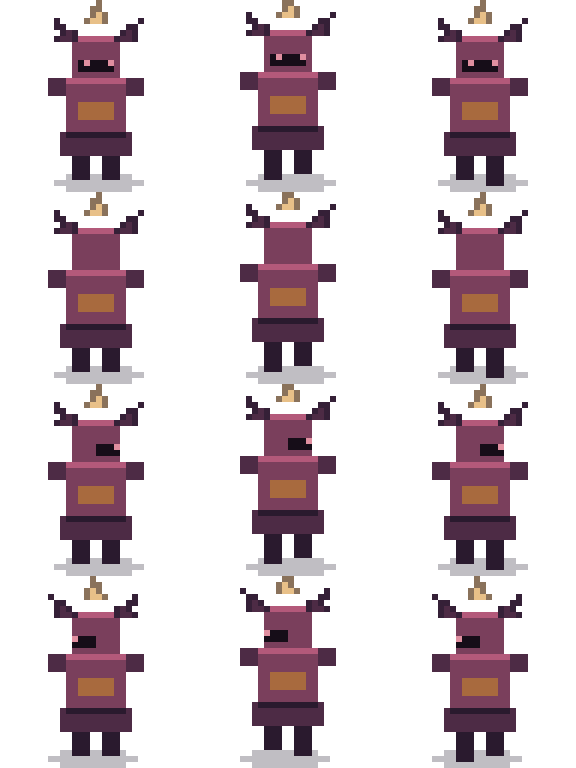
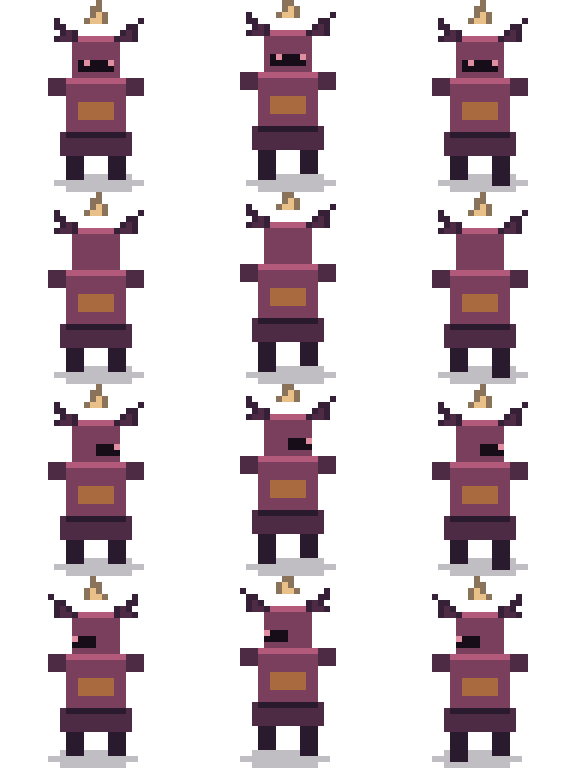
fix(pt-d2): honour `size` in the armored and vapor body plans; correct ADR-0144 D4 + record follow-ups
Red-team demonstrated that draw_vapor (and reviewer flagged draw_armored)
accepted `size` without reading it, so two plan-table rows differing only in
size rendered byte-identically while the cheap table-uniqueness checker called
them distinct. Both now route size through sz(), proven by a per-plan pixel
hash: armored/vapor small != large.

ADR-0144 D4 claimed the eval mirrors nothing the Rust validators own; it does
mirror non-empty-learnset and dangling-skill-ref (deliberately, per the
evolution-fusion-content-integrity precedent). Corrected, and the three
knowingly-deferred follow-ups recorded.

ARCHITECTURE.md gains the M-playtest-d section.

diff --git a/client/art-src/generate_monsters.py b/client/art-src/generate_monsters.py
@@ -286,15 +286,18 @@ def draw_armored(facing, col, pal, sec, acc, size, feats):
     im = Img(TILE, TILE)
     b = 1 if col == "walk0" else 0
     lp = {"idle": 0, "walk0": 1, "walk1": -1}[col]
-    contact_shadow(im, 16, 30, 7)
-    for dx, ph in ((-4, lp), (1, -lp)):  # planted legs, directly under torso
+    # `size` widens the torso block and the shoulder plates, so two rows of the
+    # plan table that differ only in size cannot render identically.
+    hw = sz(size, 4, 5)  # torso half-width
+    contact_shadow(im, 16, 30, hw + 2)
+    for dx, ph in ((-hw, lp), (hw - 3, -lp)):  # planted legs, under the torso
         im.rect(16 + dx, 25 - b + (1 if ph > 0 else 0), 3, 5, acc[1])
-    im.rect(10, 22 - b, 12, 4, pal[1])  # hips
-    im.rect(11, 13 - b, 10, 10, pal[2])  # torso block
-    im.hline(11, 13 - b, 10, pal[3])
-    im.hline(11, 22 - b, 10, pal[0])
-    im.rect(8, 13 - b, 3, 3, pal[1])  # shoulder plates (2px wider than torso)
-    im.rect(21, 13 - b, 3, 3, pal[1])
+    im.rect(16 - hw - 1, 22 - b, 2 * hw + 2, 4, pal[1])  # hips
+    im.rect(16 - hw, 13 - b, 2 * hw, 10, pal[2])  # torso block
+    im.hline(16 - hw, 13 - b, 2 * hw, pal[3])
+    im.hline(16 - hw, 22 - b, 2 * hw, pal[0])
+    im.rect(16 - hw - 3, 13 - b, 3, 3, pal[1])  # shoulder plates, 3px wider
+    im.rect(16 + hw, 13 - b, 3, 3, pal[1])
     im.rect(13, 17 - b, 6, 3, sec[1])  # chest emblem / underlayer
     im.rect(12, 6 - b, 8, 7, pal[2])  # helm
     im.hline(12, 6 - b, 8, pal[3])
@@ -316,13 +319,16 @@ def draw_vapor(facing, col, pal, sec, acc, size, feats):
     """Wide-bottomed bell of vapour with trailing veils, no face, no legs."""
     im = Img(TILE, TILE)
     drift = {"idle": 0, "walk0": 1, "walk1": -1}[col]
-    contact_shadow(im, 16, 30, 5)  # small + offset: it hovers
-    body(im, 16, 23, 12, 6, pal)
-    body(im, 16, 15, 6, 6, pal)
-    body(im, 16, 19, 9, 4, pal, outline=False)
+    # `size` sets the bell's flare, so two rows of the plan table that differ
+    # only in size cannot render identically.
+    flare = sz(size, 9, 12)
+    contact_shadow(im, 16, 30, flare - 7)  # small + offset: it hovers
+    body(im, 16, 23, flare, 6, pal)
+    body(im, 16, 15, flare - 6, 6, pal)
+    body(im, 16, 19, flare - 3, 4, pal, outline=False)
     under(im, 16, 21, 4, 3, sec)  # warm ember core glowing through the veil
     if "veil" in feats:  # ribbons trail BELOW the bbox — a unique bottom edge
-        for dx, ph in ((-9, drift), (9, -drift)):
+        for dx, ph in ((-flare + 3, drift), (flare - 3, -drift)):
             for i in range(6):
                 im.put(16 + dx + int(round(ph * i / 3.0)), 25 + i, pal[1])
                 im.put(16 + dx + int(round(ph * i / 3.0)) + 1, 25 + i, pal[3])

diff --git a/ARCHITECTURE.md b/ARCHITECTURE.md
@@ -1113,3 +1113,7 @@ not seeded). ADR next-free = 0107.
 
 **ptc5c** (overlay mutual-exclusion symmetry — ADR-0139) complete, client-only: closes the one-directional overlay-guard gap in `main.ts`. The three oldest overlay-open handlers — `KeyB`/`KeyI`/`KeyE` (box/raising/evolution) — omitted `!dialogueView?.visible && !questLogView?.visible && !healView?.visible` from their open-guards while every newer handler (KeyQ/H/G/U/P/L/N/O + the `?` help handler) guarded the full sibling set, so pressing B/I/E over an active dialogue/quest-log/heal overlay stacked a second overlay. Fix = add the three modal guards to KeyB/I/E — **guard-only, not hide** (hiding a live dialogue/quest/heal on a box keypress is wrong UX; the Escape ladder already closes them independently). Primary deliverable = a new source-scan gate `W-OVERLAY-FANOUT-MUTEX` (`main.wiring.test.ts`) that turns the whole class into a fail-loud invariant: each of the **13** overlay-open handlers must account for every sibling of the 14-overlay set (`{battle,box,raising,evolution,dialogue,questLog,heal,shop,trade,pvp,leaderboard,rename,tradePropose,help}`, `errorOverlayView` excluded) except its own toggle target — **modals via guard-form `!Y?.visible` only** (a `.hide()` on a modal must not satisfy it), the `{box,raising,evolution}` hide-switch trio via guard-OR-hide, `battleView` via the bare `battleView?.visible` token (covers the `shouldToggleBox(...)` call form). Handler blocks are sliced by min-over-all-anchors (12 `e.code === 'KeyX'` + `e.key === '?'` + an `e.code === 'Escape'` sentinel bounding KeyT/`?`). `W-HELP-FANOUT-OPENGUARDS` is kept alongside (complementary: it pins the help-specific guard-form per 12-`e.code`-handler; the new gate adds the full matrix incl. the `?` handler). The open-coded-lists → single overlay registry root-cause refactor (spec ptc5c-2) is **parked** as a named post-gate slice `M-postgate-overlay-registry` (Decision B — behavior-sensitive hide-switch flattening + SERIAL `main.ts` churn pre-gate; the gate already holds the correctness line). No schema/reducer/server change; `just knowledge` no-op. Gate proof: RED (9 failures = KeyB/I/E × dialogue/questLog/heal) → GREEN. ADR next-free = 0140.
 
+
+## M-playtest-d — Playtest content pack (pre-gate)
+
+**pt-d2** (roster wave 2 + placeholder-replacement sprites — ADR-0144) complete, content/assets only — no schema, no mechanics, no `client/src`/`game-core/src` change. Roster 6 → 10 forms: `content/species/050-wave2.ron` adds the wild-legal bases **Umbraquill** (20, Dark, *status* archetype — speed-first Poison applier) and **Gustwyrm** (21, Wind, *support* — the roster's first bulky pivot); `051-wave2-derived.ron` adds their evolution-only targets **Venumbra** (22, speed 100, the fastest form shipped) and **Tempestrix** (23, hp 92 / sp_def 96, the first true wall, ability 3 Regeneration), with two appended `evolutions.ron` blocks (20→22 `Level(22)`, 21→23 `Bond(180)`). Because roster waves are authored by **concurrently-running slices**, pt-d2 claims a reserved **id band 20–29** and the **`05x-`** filename band, and picks affinity/archetype by an explicit tie-break rule (tail of the `Affinity` enum among affinities that have skills → Dark, Wind; tail of the GDD §5 archetype list → status, support) so the two waves stay disjoint with zero communication (ADR-0144 D1). New base forms have no encounter row yet — encounter tuning is pt-d3, and no reachability validator exists, so this is valid-but-not-yet-wild content. Sprites: new `client/art-src/generate_monsters.py` **imports** `generate_art.py` primitives and never edits it (the shared 1200-line module is what wave 1 must also extend — editing it from both slices is the one guaranteed hard conflict), emitting `monster-<slug>.{png,json}` + byte-identical-rects `-normal` sheets in the shipped emberkit format (96×128, 12 `mon_<face>_<col>` frames, 8 animations, `left` = `hflip` of right) for the five shipped forms that had no sheet plus the four new ones; **seven body plans** (quadruped / bipedal-armored / serpentine-coil / rooted-sprout / amorphous-vapor / avian+size / orb+wraith) give each species a distinct silhouette rather than a palette swap (the H2 attachment bar). Assets ship **inert** — `client/src/render/placeholderAssets.ts` is still the only `AssetProvider`, so wiring them is a later slice. Gate: new auto-discovered `evals/pt-d2-roster-wave-2.eval.mjs` (reserved band, STAB, **orphan-derived-form + evolution-target-must-be-derived** — a red-team pass proved a base→base evolution passed both the Rust authority and the first draft — monotonic evolution BST, sprite set/format/normal-registration, and a **silhouette-distinctness** tooth that decodes each sheet's `mon_down_idle` alpha, crops to its bbox and requires ≥10% pairwise difference, so a palette-swap reskin fails). `CONTENT_VERSION` 12→13 + regenerated `evals/baselines/content-hash.json` (ADR-0073), committed last so a rebase behind wave 1 is one deterministic regeneration. ADR next-free = 0145.

diff --git a/docs/adr/0144-pt-d2-roster-wave-2.md b/docs/adr/0144-pt-d2-roster-wave-2.md
@@ -97,18 +97,28 @@ fully disjoint add — whereas the natural Rust homes (`game-core/src/content.rs
 `server-module/src/content_tests.rs`) are shared files wave 1 will also edit *and* sit outside
 this slice's declared touch set.
 
-The new `evals/pt-d2-roster-wave-2.eval.mjs` deliberately carries **only invariants no
-existing gate asserts**. Stat ranges, dangling skill/ability references and evolution
-integrity stay owned by the Rust validators (the authority); the eval adds:
+The **Rust validators remain the authority** for content integrity; the eval is slice-scoped
+defence-in-depth. Its genuinely novel checks are:
 
 - the **reserved-band** rule (D1),
 - the affinity/STAB design bar,
 - the **orphan-derived-form** rule — every species in `051-wave2-derived.ron` must be some
-  evolution's `to_species` exactly once. Nothing today catches a derived form that no
-  evolution reaches: `validate_evolution_fusion` walks *from* evolutions, never *to* the
-  derived file. This is the genuinely novel tooth.
+  evolution's `to_species` exactly once, and every wave-2 evolution target must be a member
+  of that derived set. Nothing else catches either half: `validate_evolution_fusion` walks
+  *from* evolutions and never *to* the derived file, and its "derived forms not wild" step is
+  vacuous for a species that has no encounter row yet — a red-team pass demonstrated that
+  a base form evolving directly into *another wild-legal base form* passed both the Rust
+  authority test and the first draft of this eval. This is the load-bearing tooth.
 - `derived BST > source BST` (a line invariant Rust does not check),
 - sprite sheet-set/format/normal-registration, and the **silhouette-distinctness** tooth.
+
+It **also mirrors** two rules the Rust validators own — non-empty learnsets and dangling
+skill-id references — following the precedent set by
+`evals/evolution-fusion-content-integrity.eval.mjs`: a content-file-only checker catches a
+bad content edit before a Rust build, which is the cheapest possible feedback for a slice
+whose whole surface is data. Deliberately **not** mirrored: stat ranges and ability
+references, where a second implementation would be pure SSOT duplication with no
+faster-feedback payoff.
 
 `SPR-SET` iterates an **explicit `COVERED` id→slug map, not the whole registry** — a total
 gate would go red the moment wave 1 merged species this slice cannot know the slugs of. The
@@ -177,3 +187,17 @@ shared art module gains a companion rather than a fork.
 - Two independently-authored per-species art generators (one per wave) would be a duplicated
   concept. Flagged in the handoff: whichever wave lands second should import this module rather
   than add a third.
+
+**Follow-ups this slice deliberately did not take** (each is outside the declared touch set):
+
+- **`validate_evolution_fusion` does not require an evolution target to be a derived-only
+  form.** The eval closes this for wave-2 sources only; the general fix belongs in
+  `game-core/src/content.rs`, which this content slice may not edit. Worth a small rules slice
+  before pt-d3 adds encounter rows, because the existing step-6 guard only bites once a species
+  is actually wild-encounterable.
+- The orphan tooth reads `evolutions.ron` only, so a derived form reachable solely through
+  `fusion.ron` would be flagged as an orphan. Not reachable today (neither 22 nor 23 is a fusion
+  result) and it fails **safe** — over-strict, never permissive.
+- `SPR-SET`/`SPR-SILHOUETTE` iterate the eval's explicit `COVERED` map. Once both roster waves
+  have landed, promoting it to a total function over the merged registry — so every species is
+  required to have a distinct sheet — is the natural hardening step.
